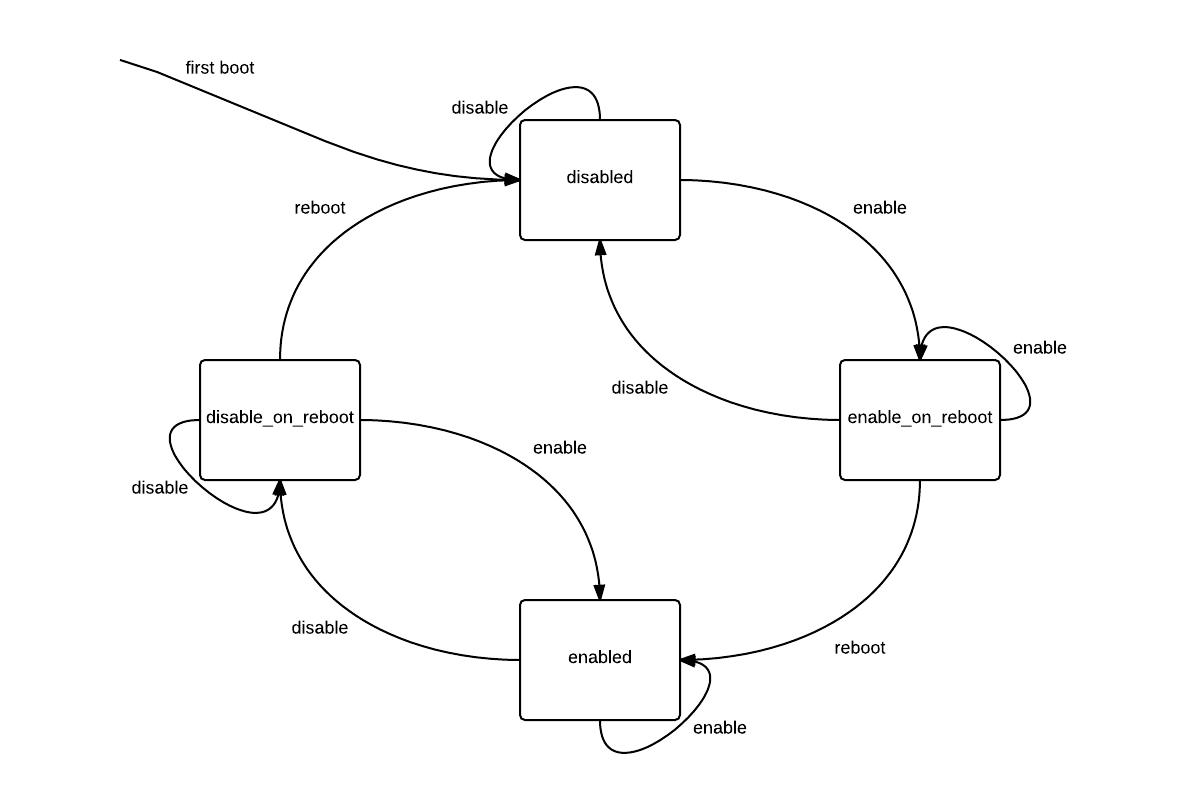
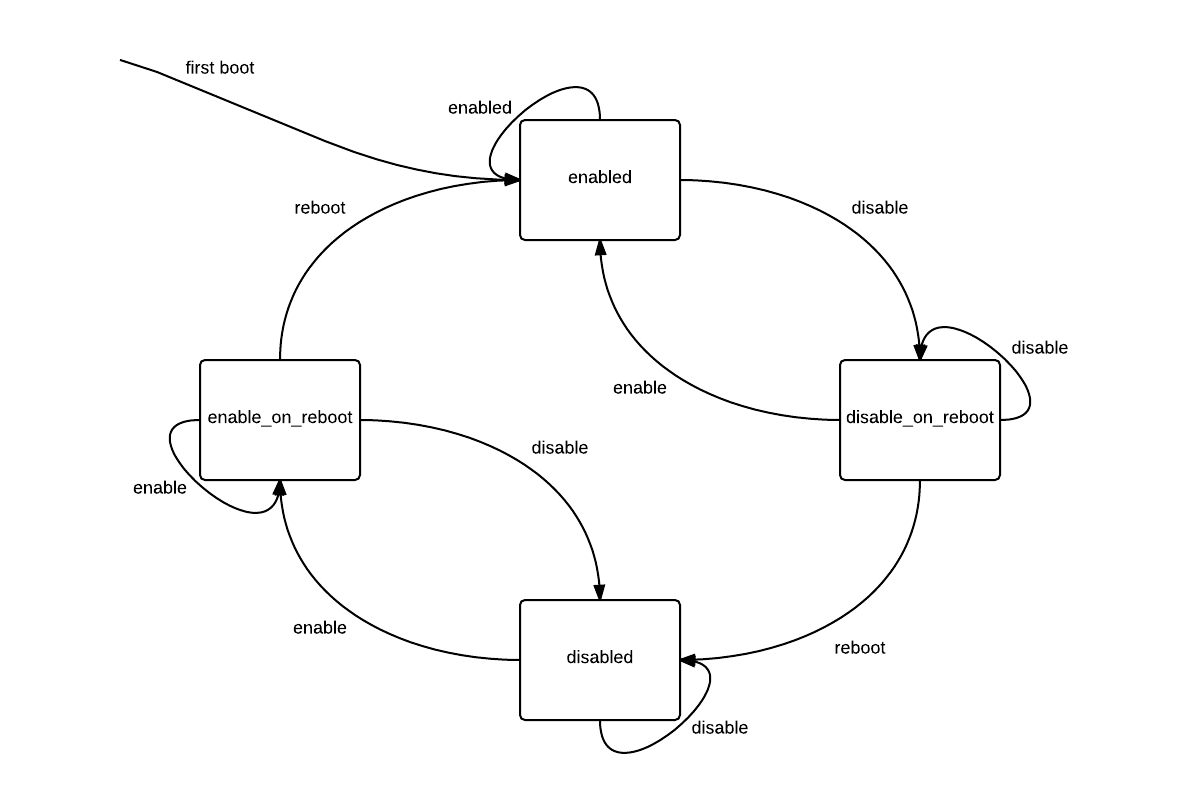
Revision 2 of the integrated GPU passthrough proposal

diff --git a/features/futures/integrated-gpu-passthrough.md b/features/futures/integrated-gpu-passthrough.md
@@ -2,7 +2,7 @@
 title: Integrated GPU passthrough support
 layout: default
 design_doc: true
-revision: 1
+revision: 2
 status: proposed
 ---
 
@@ -10,8 +10,9 @@ Introduction
 ------------
 
 Passthrough of discrete GPUs has been
-[available since XenServer 6.0]({{site.baseurl}}/xapi/design/gpu-passthrough.html). With some
-extensions, we will also be able to support passthrough of integrated GPUs.
+[available since XenServer 6.0]({{site.baseurl}}/xapi/design/gpu-passthrough.html).
+With some extensions, we will also be able to support passthrough of integrated
+GPUs.
 
 - Whether an integrated GPU will be accessible to dom0 or available to
   passthrough to guests must be configurable via XenAPI.
@@ -20,34 +21,37 @@ extensions, we will also be able to support passthrough of integrated GPUs.
 Host Configuration
 ------------------
 
-A new host field will be added:
+A new PGPU field will be added:
 
-- `host.integrated_GPU_passthrough enum(disabled|enable_on_reboot|enabled|disable_on_reboot)`
+- `PGPU.dom0_access enum(enabled|disable_on_reboot|disabled|enable_on_reboot)`
 
 as well as new API calls:
 
-- `host.enable_integrated_GPU_passthrough`
-- `host.disable_integrated_GPU_passthrough`
+- `PGPU.enable_dom0_access`
+- `PGPU.disable_dom0_access`
 
-Enabling integrated GPU passthrough will modify the xen commandline (using the
-xen-cmdline tool) such that dom0 will not be able to access the integrated GPU
-on next boot.
+Disabling dom0 access will modify the xen commandline (using the xen-cmdline
+tool) such that dom0 will not be able to access the GPU on next boot.
 
-A state diagram for the field host.integrated_GPU_passthrough is shown below:
+A state diagram for the field PGPU.dom0_access is shown below:
 
 ![host.integrated_GPU_passthrough flow diagram](integrated-gpu-passthrough.png)
 
-Note that when a client enables or disables integrated GPU passthrough, the
-change can be cancelled until the host is rebooted.
+Note that when a client enables or disables dom0 access for a PGPU, the change
+can be cancelled until the host is rebooted.
 
 Handling vga_arbiter
 --------------------
 
-Normally, xapi will not create a PGPU object for the PCI device with address
+Currently, xapi will not create a PGPU object for the PCI device with address
 reported by `/dev/vga_arbiter`. This is to prevent a GPU in use by dom0 from
-from being passed through to a guest. This will no longer be the case if:
+from being passed through to a guest. This behaviour will be changed - instead
+of not creating a PGPU object at all, xapi will create a PGPU, but its
+supported_VGPU_types field will be empty.
 
-1.  Integrated GPU passthrough is enabled.
+However, the PGPU's supported_VGPU_types will be populated as normal if:
+
+1.  dom0 access to the GPU is disabled.
 2.  The vendor ID of the device is contained in a whitelist provided by xapi's
     config file.
 
